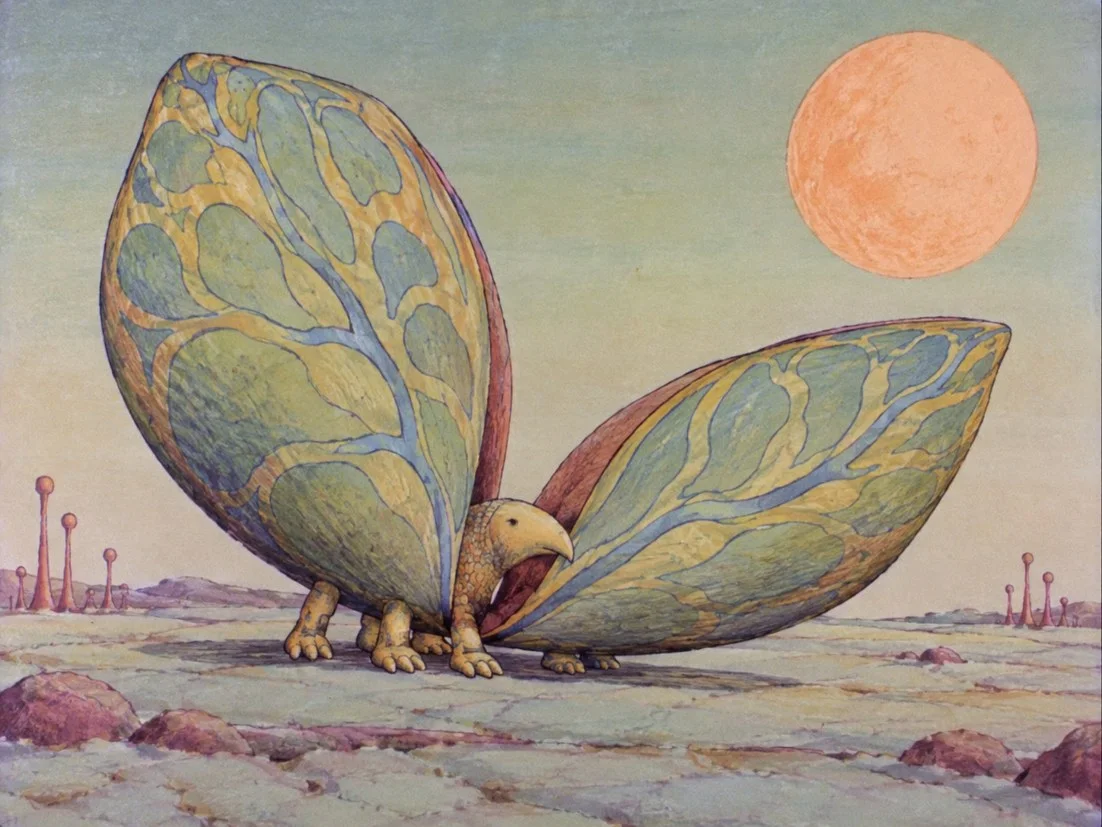
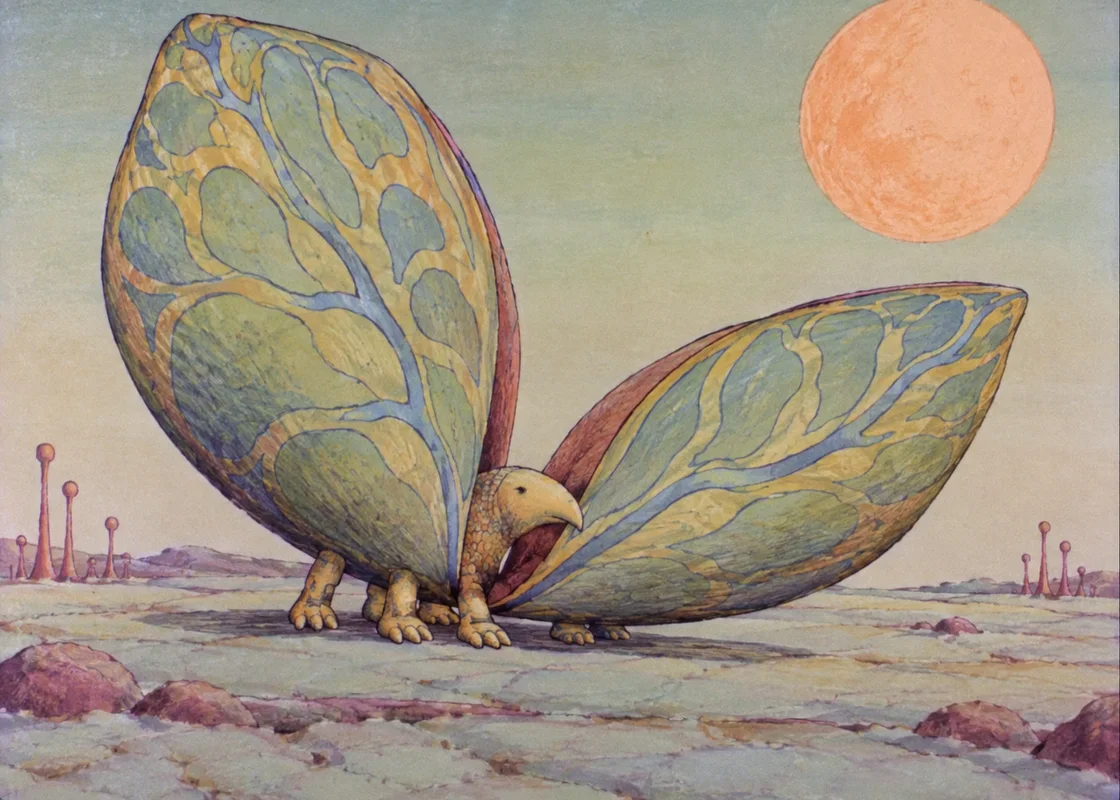
일러스트 18장을 1.4:1로 통일 크롭(개체 보존), 그리드 정렬

diff --git a/assets/data.js b/assets/data.js
@@ -9,15 +9,15 @@ window.FAUNA = {
     tiles: ['t07','t08','t09','t10','t11','t12','u0','u1','u2','u3','u4','u5','t00','t01','t07','t08','t09','t10','t11','t12'],
     opacity: [1,0.92,1,0.77,0.7,0.63,0.56,0.5,0.44,0.38,0.33,0.28,0.23,0.19,0.15,0.12,0.09,0.07,0.05,0.04],
   },
-  // 상세 일러스트 18장, 사용자가 정한 순서 (n = assets/illust 파일 번호, ar = 가로/세로 비율)
+  // 상세 일러스트 18장, 사용자가 정한 순서 (n = assets/illust 파일 번호). 모두 1.4:1로 크롭(개체 쪽을 남김)
   // 07(보정_02, 잎 위의 새)은 사용자 요청으로 제외
   illust: [
-    { n: 14, src: '보정_18', ar: 1.3325 }, { n: 13, src: '보정_16', ar: 1.381 },  { n: 9,  src: '보정_09', ar: 1.4074 },
-    { n: 8,  src: '보정_07', ar: 1.4183 }, { n: 17, src: '보정_24', ar: 1.4183 }, { n: 19, src: '보정_27', ar: 1.4368 },
-    { n: 15, src: '보정_19', ar: 1.4275 }, { n: 16, src: '보정_20', ar: 1.4183 }, { n: 2,  src: '22',     ar: 1.3325 },
-    { n: 11, src: '보정_14', ar: 1.4183 }, { n: 10, src: '보정_12', ar: 1.4368 }, { n: 12, src: '보정_15', ar: 1.3325 },
-    { n: 3,  src: '23',     ar: 1.3325 }, { n: 18, src: '보정_26', ar: 1.4557 }, { n: 5,  src: '28',     ar: 1.3325 },
-    { n: 4,  src: '25',     ar: 1.3325 }, { n: 6,  src: '29',     ar: 1.3325 }, { n: 1,  src: '21',     ar: 1.3325 },
+    { n: 14, src: '보정_18', ar: 1.4 }, { n: 13, src: '보정_16', ar: 1.4 },  { n: 9,  src: '보정_09', ar: 1.4 },
+    { n: 8,  src: '보정_07', ar: 1.4 }, { n: 17, src: '보정_24', ar: 1.4 }, { n: 19, src: '보정_27', ar: 1.4 },
+    { n: 15, src: '보정_19', ar: 1.4 }, { n: 16, src: '보정_20', ar: 1.4 }, { n: 2,  src: '22',     ar: 1.4 },
+    { n: 11, src: '보정_14', ar: 1.4 }, { n: 10, src: '보정_12', ar: 1.4 }, { n: 12, src: '보정_15', ar: 1.4 },
+    { n: 3,  src: '23',     ar: 1.4 }, { n: 18, src: '보정_26', ar: 1.4 }, { n: 5,  src: '28',     ar: 1.4 },
+    { n: 4,  src: '25',     ar: 1.4 }, { n: 6,  src: '29',     ar: 1.4 }, { n: 1,  src: '21',     ar: 1.4 },
   ],
 
   packages: [

diff --git a/index.html b/index.html
@@ -9,7 +9,7 @@
   <link rel="preconnect" href="https://fonts.googleapis.com">
   <link rel="preconnect" href="https://fonts.gstatic.com" crossorigin>
   <link href="https://fonts.googleapis.com/css2?family=DM+Sans:opsz,wght@9..40,400;9..40,500;9..40,700&family=Inter:wght@400;600;700&family=Noto+Sans+KR:wght@400&display=swap" rel="stylesheet">
-  <link rel="stylesheet" href="assets/style.css?v=20261026d">
+  <link rel="stylesheet" href="assets/style.css?v=20261026e">
 </head>
 <body>
   <!-- 1. 커버 (Figma Frame 2) -->
@@ -53,7 +53,7 @@
     </aside>
   </section>
 
-  <script src="assets/data.js?v=20261026d"></script>
-  <script src="assets/app.js?v=20261026d"></script>
+  <script src="assets/data.js?v=20261026e"></script>
+  <script src="assets/app.js?v=20261026e"></script>
 </body>
 </html>

diff --git a/package.html b/package.html
@@ -8,12 +8,12 @@
   <link rel="preconnect" href="https://fonts.googleapis.com">
   <link rel="preconnect" href="https://fonts.gstatic.com" crossorigin>
   <link href="https://fonts.googleapis.com/css2?family=Inter:wght@400;600;700&family=Noto+Sans+KR:wght@400&display=swap" rel="stylesheet">
-  <link rel="stylesheet" href="assets/style.css?v=20261026d">
+  <link rel="stylesheet" href="assets/style.css?v=20261026e">
 </head>
 <body>
   <!-- package.html?id=sticker-archive | sticker-kit-09 | sticker-kit -->
   <div class="board"></div>
-  <script src="assets/data.js?v=20261026d"></script>
-  <script src="assets/app.js?v=20261026d"></script>
+  <script src="assets/data.js?v=20261026e"></script>
+  <script src="assets/app.js?v=20261026e"></script>
 </body>
 </html>

diff --git a/assets/style.css b/assets/style.css
@@ -61,7 +61,7 @@ img { display: block; }
 .images figure.in { opacity: 1; transform: none; }
 .images img { width: 100%; height: auto; }
 .images.grid { display: grid; grid-template-columns: repeat(3, 1fr); gap: calc(8 * var(--u)); padding-top: 22vh; }
-.images.grid figure { cursor: zoom-in; aspect-ratio: 1; overflow: hidden; }
+.images.grid figure { cursor: zoom-in; overflow: hidden; }
 .images.grid img { height: 100%; object-fit: cover; }
 
 .side.right .desc { position: absolute; top: 40.8%; left: calc(36 * var(--u)); width: calc(256 * var(--u)); font-size: calc(12 * var(--u)); line-height: 1.7; word-break: keep-all; }
